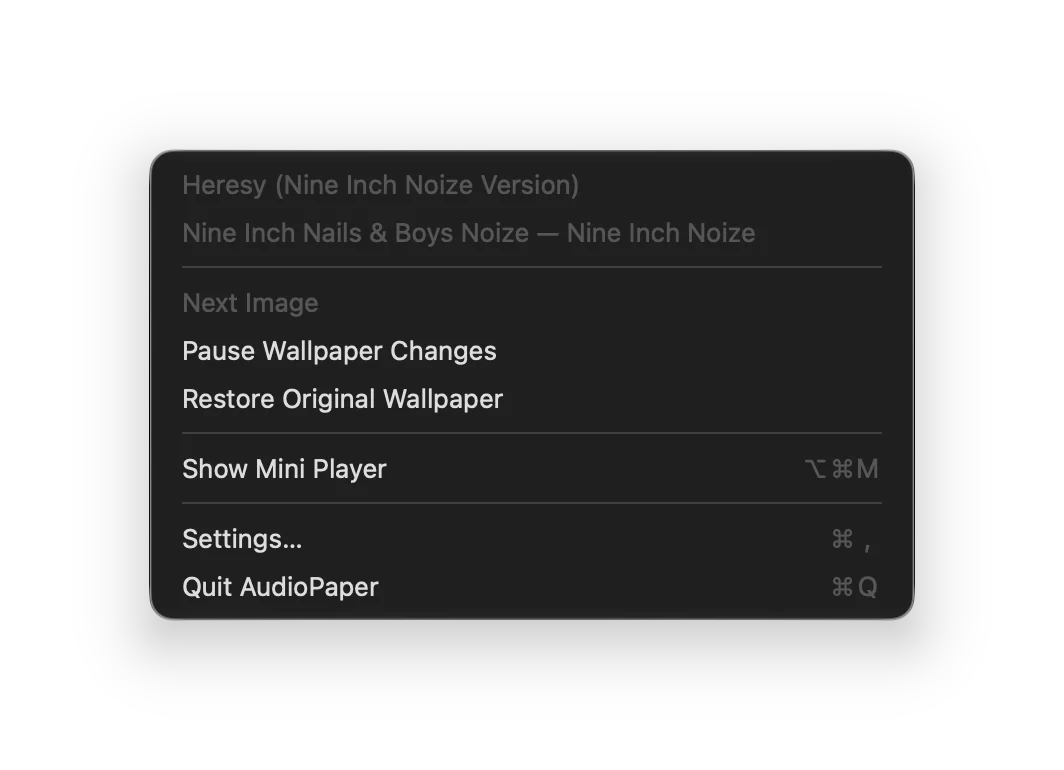
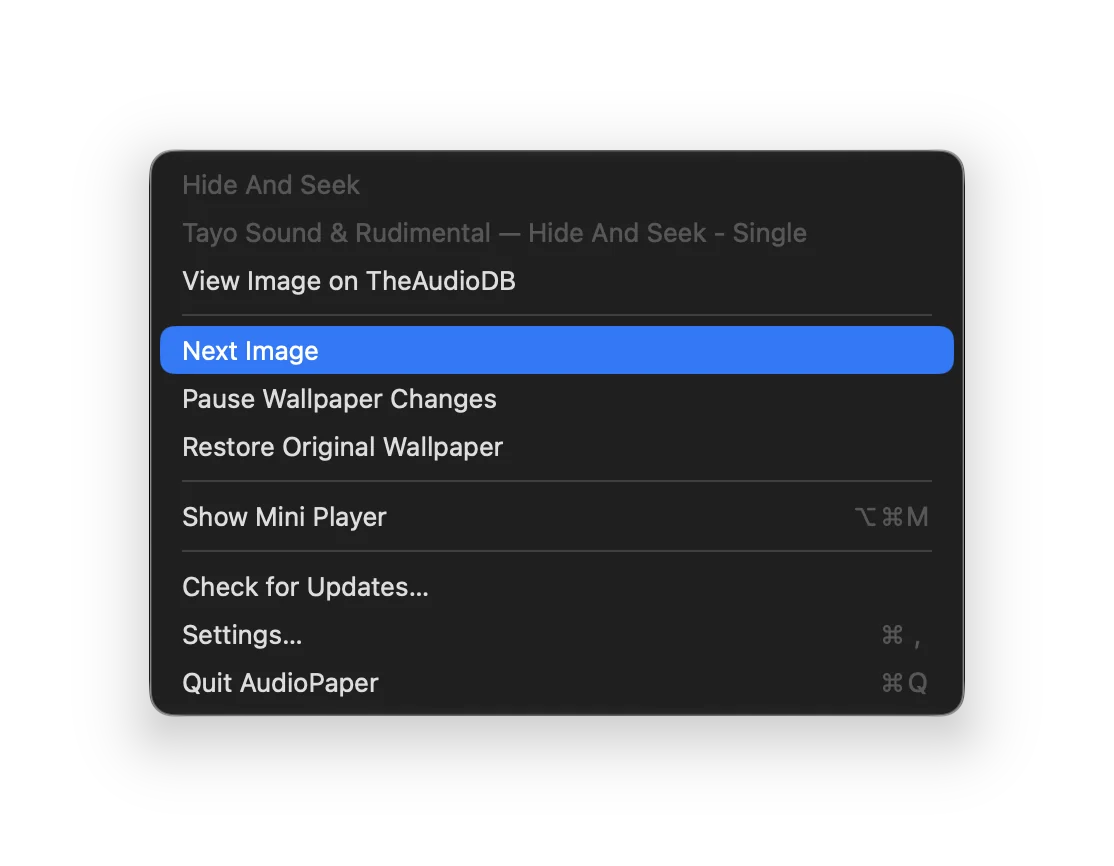
README: screenshots, other projects, precise wording on cached art
- README shows the aespa wallpaper render, the BABYMETAL and BLACKPINK
  Mini Players (credited, CC BY-SA 4.0) and the current menu, links the
  latest release, and lists other projects by the author
- Intro names Sparkle as the one third-party dependency
- "Never copies them" → keeps a copy only in its local cache and never
  uploads, republishes or redistributes (README, landing page)
- Menu screenshot recaptured with Check for Updates…
- Next-session plan: DeviantArt's public-client/PKCE model vs. the
  per-user Client Credentials setup

Changed region(s): [[0.1241, 0.1558, 0.8684, 0.8416]]

diff --git a/site/pages/index.html b/site/pages/index.html
@@ -75,7 +75,7 @@ description: A free macOS app that sets your wallpaper to the album cover of the
     </div>
     <div>
       <h2>Whose art it is</h2>
-      <p>Fan art belongs to the people who made it, and photos to the people who took them. AudioPaper shows them on your own desktop with their credit, and never copies them anywhere else.</p>
+      <p>Fan art belongs to the people who made it, and photos to the people who took them. AudioPaper shows them on your own desktop with their credit, keeps a copy only in its local cache, and never uploads, republishes or redistributes them.</p>
       <p>Most images come from sites built to share them with apps like this one (fanart.tv, TheAudioDB, Wikimedia Commons). If you add a Brave Search key, AudioPaper can also find images on ordinary websites when those sites have too little. Those websites didn’t ask to be included. That source is off unless you add a key, and you can switch it off again at any time.</p>
       <p>Because all of it is found automatically, an image can be mislabelled, show the wrong person, or be something you didn’t expect. <strong>Next Image</strong> skips it.</p>
     </div>

diff --git a/site/pages/help.html b/site/pages/help.html
@@ -58,7 +58,7 @@ description: Installing AudioPaper, getting more art, the menu, the Mini Player,
   <p>Each song is searched once, when it first plays. Art found for an artist is kept in a pool of up to 24 images, so their other songs have something to show straight away.</p>
 
   <h2 id="menu">The menu bar menu</h2>
-  <figure class="shot"><img src="shots/menu.webp" width="532" height="385" loading="lazy" alt="AudioPaper's menu: the song and artist, Next Image, Pause Wallpaper Changes, Restore Original Wallpaper, Show Mini Player (Option-Command-M), Settings (Command-comma) and Quit AudioPaper (Command-Q)."></figure>
+  <figure class="shot"><img src="shots/menu.webp" width="557" height="433" loading="lazy" alt="AudioPaper's menu: the song and artist, View Image on TheAudioDB, Next Image, Pause Wallpaper Changes, Restore Original Wallpaper, Show Mini Player (Option-Command-M), Check for Updates, Settings (Command-comma) and Quit AudioPaper (Command-Q)."></figure>
   <p>Click the icon in the menu bar. From the top:</p>
   <ul>
     <li><strong>The song</strong>, and the artist and album.</li>

diff --git a/README.md b/README.md
@@ -10,9 +10,18 @@
 [![CI](https://github.com/msitarzewski/AudioPaper/actions/workflows/ci.yml/badge.svg)](https://github.com/msitarzewski/AudioPaper/actions/workflows/ci.yml)
 [![Sponsor](https://img.shields.io/badge/♥-Sponsor-EC4899?logo=githubsponsors&logoColor=white)](https://github.com/sponsors/msitarzewski)
 
-AudioPaper is a small app for macOS 26 that changes your wallpaper whenever the song changes. It puts the album cover up straight away, then cross-fades in fan art and artist photos while the song plays, like a Photos-folder wallpaper slideshow. It lives in the menu bar, with a Liquid Glass Mini Player and desktop widgets when you want more. It's native, with no third-party dependencies, no accounts and no telemetry.
+AudioPaper is a small app for macOS 26 that changes your wallpaper whenever the song changes. It puts the album cover up straight away, then cross-fades in fan art and artist photos while the song plays, like a Photos-folder wallpaper slideshow. It lives in the menu bar, with a Liquid Glass Mini Player and desktop widgets when you want more. It's native, with no accounts and no telemetry, and one third-party dependency (Sparkle, for updates).
 
-**Website:** [msitarzewski.github.io/AudioPaper](https://msitarzewski.github.io/AudioPaper/): [help](https://msitarzewski.github.io/AudioPaper/help.html), [keyboard shortcuts](https://msitarzewski.github.io/AudioPaper/shortcuts.html) and the [full reference](https://msitarzewski.github.io/AudioPaper/reference.html).
+**Download:** [the latest release](https://github.com/msitarzewski/AudioPaper/releases/latest) (signed and notarized; it updates itself after that). **Website:** [msitarzewski.github.io/AudioPaper](https://msitarzewski.github.io/AudioPaper/): [help](https://msitarzewski.github.io/AudioPaper/help.html), [keyboard shortcuts](https://msitarzewski.github.io/AudioPaper/shortcuts.html) and the [full reference](https://msitarzewski.github.io/AudioPaper/reference.html).
+
+<p align="center">
+  <img src="site/static/shots/desktop-aespa.jpg" width="820" alt="A desktop wallpaper made by AudioPaper while aespa's Next Level plays: the four members of aespa on stage, lit in blue and pink, filling the screen.">
+</p>
+<p align="center">
+  <img src="site/static/shots/mini-babymetal.webp" width="300" alt="The Mini Player during BABYMETAL's Gimme Chocolate!!: a concert photo credited Photo by Chester, CC BY 2.0, Wikimedia Commons, with a strip of more photos and the controls.">
+  <img src="site/static/shots/mini-blackpink.webp" width="300" alt="The Mini Player during BLACKPINK's JUMP: the four members on stage, credited Photo by @aanglerrr (aang), CC BY 4.0, Wikimedia Commons, with the JUMP cover and more stage photos in the strip.">
+</p>
+<p align="center"><sub>A wallpaper AudioPaper rendered for aespa's "Next Level", and the Mini Player for BABYMETAL and BLACKPINK. Every image here is an album cover or a freely licensed photo, credited on the <a href="https://msitarzewski.github.io/AudioPaper/credits.html">Credits page</a>; the screenshots are shared under CC BY-SA 4.0.</sub></p>
 
 ## How it works
 
@@ -37,6 +46,8 @@ AudioPaper is a small app for macOS 26 that changes your wallpaper whenever the 
 4. **Rotates like a slideshow.** The cover holds the place for about 10 seconds while the artist's images load, then a new image fades in every 45 seconds (you can change this). The menu, Mini Player and widgets switch to each image the moment it's chosen, and the wallpaper follows as soon as it's drawn; a cover AudioPaper has seen before goes up without waiting. The fade is drawn in a click-through window just above the desktop, and then the real wallpaper is set underneath. So the picture stays after you quit, and it shows up in Mission Control on every Space and every display.
 
 ## Where it lives
+
+<img src="site/static/shots/menu.webp" width="300" align="right" alt="AudioPaper's menu: the song and artist, View Image on TheAudioDB, Next Image, Pause Wallpaper Changes, Restore Original Wallpaper, Show Mini Player (Option-Command-M), Check for Updates, Settings (Command-comma) and Quit AudioPaper (Command-Q).">
 
 - **Menu bar:** a standard macOS menu, per Apple's guidelines. It shows the track, credits the art (with a link to the artist's profile and the page it came from), and has Next Image, Pause, Restore Original Wallpaper, Show Mini Player (⌥⌘M), Check for Updates…, Settings… and Quit. You can hide the menu bar icon in Settings.
 - **Mini Player:** a small window modelled on Music's MiniPlayer, with the artwork under the window controls and a Liquid Glass background that takes on the colours of your wallpaper. It shows the credit, a strip of every image in rotation (the one on screen stays highlighted and in view), and the controls. From its **…** button it can *Float on Top* and *Show on All Desktops*. It reopens at launch if you left it open, in the same spot.
@@ -126,7 +137,7 @@ AudioPaper uses these services. Each image shown in the app credits its source a
 | [DeviantArt API](https://www.deviantart.com/developers/) | Fan art, with artist profile links | Your own app credentials |
 | [Brave Search API](https://brave.com/search/api/) | Fan art and artist photos when the sources above come up short | Your own key (the free tier is 2,000 queries/month; AudioPaper caches results and spaces requests to stay within it) |
 
-Fan art belongs to the people who made it. AudioPaper shows it on your own desktop with credit, and never saves it anywhere else or shares it.
+Fan art belongs to the people who made it. AudioPaper shows it on your own desktop with credit, keeps a copy only in its local cache, and never uploads, republishes or redistributes it.
 
 **Images come from the internet, found automatically.** They come from other people and services, and may be mislabelled, show the wrong person, or be unexpected; the filters catch a lot, not everything. **Next Image** skips one, and reports help improve the matching.
 
@@ -165,6 +176,17 @@ The interface follows Apple's Human Interface Guidelines for macOS: a menu (not 
 - Smarter logo detection (stylized band logos can slip past text recognition)
 - Commons relevance: categories also hold photos *related to* an artist (a fan in the band's cap, a show's speaker stacks); prefer files that name the artist
 - A hands-on VoiceOver and Full Keyboard Access session
+
+## Other projects
+
+Also by [Michael Sitarzewski](https://github.com/msitarzewski), all open source:
+
+- [**Agency Agents**](https://github.com/msitarzewski/agency-agents): a library of specialized AI agent personas for coding assistants.
+- [**Agency Agents app**](https://agencyagents.app): a small native Mac app for browsing and installing those agents across the AI tools you use.
+- [**Brew Browser**](https://brew-browser.zerologic.com): a native Mac app for Homebrew, the macOS package manager.
+- [**Anomalous**](https://anomalous.bot): system anomaly detection for macOS, with on-device judgement about what's worth your attention.
+- [**AGENT-ZERO**](https://github.com/msitarzewski/AGENT-ZERO): the AGENTS.md workflow this project is built with.
+- [**BEDROCK**](https://github.com/msitarzewski/bedrock): a free library about how a person becomes who they are.
 
 ## Support
 

diff --git a/memory-bank/NEXT-SESSION.md b/memory-bank/NEXT-SESSION.md
@@ -14,5 +14,7 @@ Updated 2026-09-25 (end of the website / release / hardening / accessibility ses
 3. **Site screenshots** (done): BABYMETAL and BLACKPINK Mini Players captured by the user with only covers + Commons sources on; every image credited on `site/pages/credits.html` (identified by matching against Commons categories); screenshots offered under CC BY-SA 4.0. A Springsteen capture is held back: its single cover shows "ICE OUT" protest signs, and the site stays out of sides — the user's call.
 4. A hands-on VoiceOver + Full Keyboard Access session.
 
+5. **DeviantArt auth model** (raised by a Codex review, confirmed in DeviantArt's docs 2026-09-25): native apps are *public* OAuth clients (client ID only, Authorization Code + PKCE, OAuth 2.1 for new apps); Client Credentials needs a secret and is for confidential clients. AudioPaper uses Client Credentials with a per-user app ID + secret in the user's Keychain, public browse endpoints only. Ask DeviantArt whether that pattern is supported (the user sends it); if not, move to PKCE (user signs in) or drop the source. Still untested live.
+
 ## Loose ends
 - DeviantArt unverified live (needs credentials). Stylized logos can pass OCR. Letterboxed stills. Spotify plugin.
